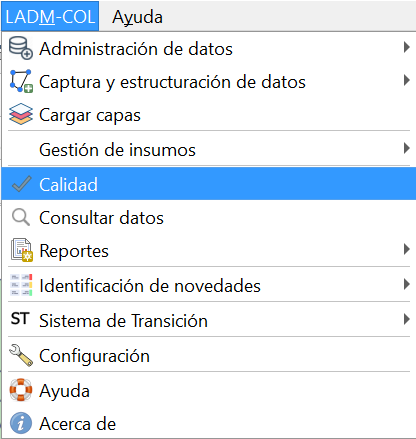
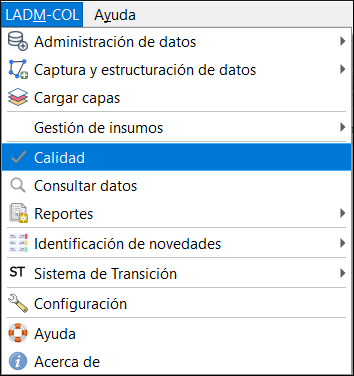
[tutorial] Ajustes a la redacción y generación de GIFs

Changed region(s): [[0.0, 0.0, 1.0, 1.0]]

diff --git a/source/tutorial/reglas_de_calidad.md b/source/tutorial/reglas_de_calidad.md
@@ -1,21 +1,40 @@
 # Reglas de Calidad
-El asistente LADM-COL cuenta con un módulo de validación, conformado por 41 reglas de calidad, el cual permite comprobar temática y topológicamente  la
-calidad de los datos, logrando la identificación de anomalías de la información, facilitando el cumplimiento de los requerimientos minimos establecidos. 
 
-Este conjunto de reglas de calidad se clasifican en 4 grupos distintos, que son **reglas de calidad para puntos, líneas, polígonos y reglas de consistencia lógica.** Estas reglas de calidad fueron construidas bajo los lineamientos técnicos del Instituto Geográfico Agustín Codazzi (IGAC).
+El asistente LADM-COL cuenta con un conjunto de reglas de calidad que permiten comprobar temática y topológicamente el estado de los datos. 
 
-Una vez ejecutado las reglas de calidad se genera un reporte, el cual es un archivo con información espacial que identifica el lugar y  la descripción de las inconsistencias existentes.
+Estas reglas de calidad se clasifican en 4 grupos:
 
-1.  Para iniciar con este proceso se debe acceder a la siguiente ruta **LADM-COL – Calidad.**
+- Reglas de calidad para puntos.
+- Reglas de calidad para lineas.
+- Reglas de calidad para polígonos.
+- Reglas de calidad de consistencia lógica.
 
-<a class="" data-lightbox="Paso 1" href="../_static/tutorial/reglas_de_calidad/cap10calidad1.png" title="Paso1" data-title="Paso 1"><img src="../_static/tutorial/reglas_de_calidad/cap10calidad1.png" class="align-center" width="400px" alt="Paso 1"/></a>
+## Paso 1: Menú de control de calidad.
 
-2. Obteniendo un cuadro de diálogo con cada una de las reglas de validación existentes, en este caso se realizará una evaluación completa de la información para ello se debe dar clic en el botón **seleccionar todo** posteriormente dar clic en el botón **Aceptar**
+Dirigete a la ruta: **LADM-COL –> Calidad.**
 
-<a class="" data-lightbox="Paso 2" href="../_static/tutorial/reglas_de_calidad/cap10calidad2.png" title="Paso2" data-title="Paso 2"><img src="../_static/tutorial/reglas_de_calidad/cap10calidad2.png" class="align-center" width="800px" alt="Paso 2"/></a>
+<a class="" data-lightbox="Paso 1: Menú de control de calidad." href="../_static/tutorial/reglas_de_calidad/cap10calidad1.png" title="Paso 1: Menú de control de calidad." data-title="Paso 1: Menú de control de calidad."><img src="../_static/tutorial/reglas_de_calidad/cap10calidad1.png" class="align-center" width="400px" alt="Paso 1: Menú de control de calidad."/></a>
 
-3. Finalmente el asistente ejecutará la validación de cada una de las reglas de calidad existentes, generando un informe, donde identifica los poligonos de color rojo , como los predios que presentan inconsistencias, al abrir la tabla de atributos (siguiente imagen) de las tablas generadas por dicho reporte, se podra identificar el origen de la anomalía. 
+## Paso 2: Ejecución de las reglas de calidad.
 
-<a class="" data-lightbox="paso3" href="../_static/tutorial/reglas_de_calidad/cap10calidad3.png" title="Paso3" data-title="Paso 3"><img src="../_static/tutorial/reglas_de_calidad/cap10calidad3.png" class="align-center" width="800px" alt="Paso3"/></a>
+Se desplegará una interfaz de diálogo con cada una de las reglas de validación existentes, en esta ventana debes dar clic en el botón `Seleccionar todo` seguido del botón `Aceptar` para proceder a ejecutar todas las reglas de calidad.
 
-<a class="" data-lightbox="Resultado1" href="../_static/tutorial/reglas_de_calidad/cap10calidad4.png" title="Resultado1" data-title="Resultado1"><img src="../_static/tutorial/reglas_de_calidad/cap10calidad4.png" class="align-center" width="800px" alt="Resultado1"/></a>
+<a class="" data-lightbox="Paso 2: Ejecución de las reglas de calidad." href="../_static/tutorial/reglas_de_calidad/cap10calidad2.gif" title="Paso 2: Ejecución de las reglas de calidad." data-title="Paso 2: Ejecución de las reglas de calidad."><img src="../_static/tutorial/reglas_de_calidad/cap10calidad2.gif" class="align-center" width="800px" alt="Paso 2: Ejecución de las reglas de calidad."/></a>
+
+## Paso 3: Resultados del control de calidad.
+
+Una vez terminan de ejecutarse las reglas de calidad, se habilita el botón `Mostrar resultados`. Mediante el cual es posible desplegar un informe en el que se identifican las reglas que se validaron resaltadas en color rojo (cuando se encuentran errores de validación) o verde (sin errores de validación). Adicionalmente, se generan capas temporales asociadas a los errores de validación obtenidos, éstas se encuentran en el panel de *Capas* en el grupo *Errores de validación*.
+
+<div class="seealso">
+<p class="admonition-title">TIP</p>
+<p>Es posible exportar los resultados obtenidos de las reglas de validación. Para ello debes dar clic en el botón <i>Mostrar resultados -> Exportar PDF.</i></p>
+</div>
+
+<a class="" data-lightbox="Paso 3: Resultados del control de calidad." href="../_static/tutorial/reglas_de_calidad/cap10calidad3.gif" title="Paso 3: Resultados del control de calidad." data-title="Paso 3: Resultados del control de calidad."><img src="../_static/tutorial/reglas_de_calidad/cap10calidad3.gif" class="align-center" width="800px" alt="Paso 3: Resultados del control de calidad."/></a>
+
+<div class="seealso">
+<p class="admonition-title">TIP</p>
+<p>También es posible exportar las capas geográficas y/o alfanuméricas con errores en una base de datos tipo GeoPackage. Para ello debes dar clic en el botón guardar, que se encuentra al lado del grupo <i>Errores de validación</i> dentro del panel de Capas.</p>
+</div>
+
+<a class="" data-lightbox="Paso 3: Resultados del control de calidad." href="../_static/tutorial/reglas_de_calidad/cap10calidad4.gif" title="Paso 3: Resultados del control de calidad." data-title="Paso 3: Resultados del control de calidad."><img src="../_static/tutorial/reglas_de_calidad/cap10calidad4.gif" class="align-center" width="800px" alt="Paso 3: Resultados del control de calidad."/></a>
